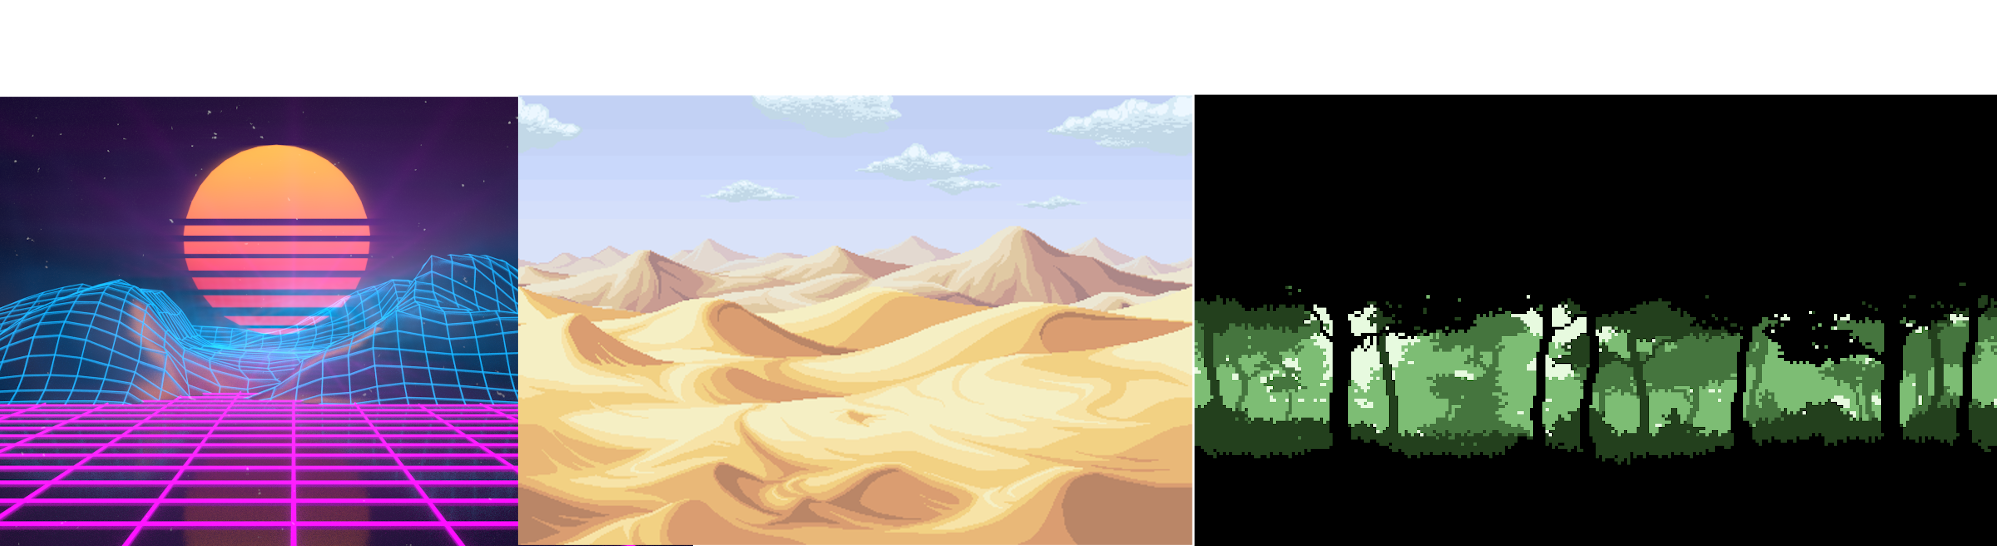
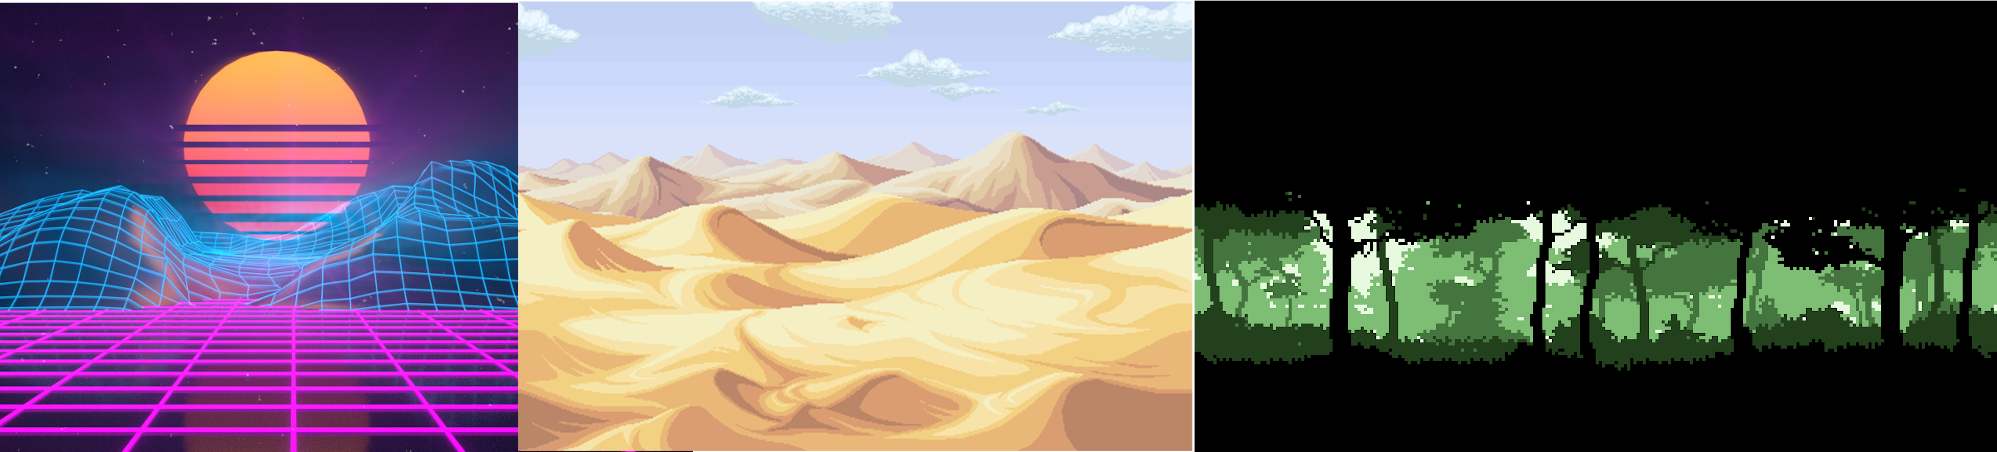
fixed game load

diff --git a/index.html b/index.html
@@ -1,10 +1,11 @@
 <!DOCTYPE html>
 <html lang="en">
+
 <head>
   <meta charset="UTF-8">
   <meta name="viewport" content="width=device-width, initial-scale=1.0">
   <meta http-equiv="X-UA-Compatible" content="ie=edge">
-  <link rel="stylesheet" type="text/css" href="http://yui.yahooapis.com/3.18.1/build/cssreset/cssreset-min.css"> 
+  <link rel="stylesheet" type="text/css" href="http://yui.yahooapis.com/3.18.1/build/cssreset/cssreset-min.css">
   <link rel="stylesheet" type="text/css" href="game.css">
 
   <script type="text/javascript" src="background.js"></script>
@@ -15,35 +16,17 @@
   <script type="text/javascript" src="game.js"></script>
   <script type="text/javascript" src="index.js"></script>
   <script type="text/javascript">
-  function Empezar(){
-    document.getElementById('planet').style.display = "block";
-  }
-  function Ocultar(){
-    document.getElementById('planet').style.display = "none";
-  }
-  function Mostrar_Ocultar(){
-    var canvas = document.getElementById('planet');
-    if(canvas.style.display == "none"){
-      Start();
-      document.getElementById('boton').value = "Ocultar";
-    }else {
-      Ocultar();
-      document.getElementById('boton').value = "Start";
 
-    }
-  }
   </script>
   <!-- <link rel="stylesheet" href="style.css"> -->
   <title>Rescue Of The Panet Of The Apes (Museum Version)</title>
 </head>
+
 <body>
-    <div id="container-game">
-      <a href="#"> <img src="images/Intro.jpg"  alt="start-image" class="star-planet" ></a>
-    </div>
-    <input type="submit" id="boton" value="Start" onclick="Start()"/>
-    <input type="submit" value="Ocultar" onclick="Ocultar()"/>
-
-    <canvas id="planet" width="700" height="500"></canvas>
-
+  <div id="container-game">
+    <img src="images/Intro.jpg" alt="start-image" class="star-planet">
+  </div>
+  <canvas id="planet" width="700" height="500"></canvas>
 </body>
+
 </html>

diff --git a/game.js b/game.js
@@ -15,7 +15,7 @@ var Game = {
   init: function (id) {
 
     // this.backgroundCounter ++ç
-    this.canvas = document.getElementById(id);
+        this.canvas = document.getElementById(id);
     this.ctx = this.canvas.getContext("2d");
     this.setDimensions();
     this.reset();
@@ -103,7 +103,7 @@ var Game = {
   reset: function () {
 
     //la imagen con todas pegadas
-    this.background = new Background('./Images/pruebaStage.png', this.hCanvas, this.wCanvas, this.ctx)
+    this.background = new Background('./Background/backgroundFinal.png', this.hCanvas, this.wCanvas, this.ctx)
     this.player = new Player(this.ctx, this.wCanvas, this.framesCounter, Game)
     this.enemie = new Enemie(this.ctx, this.wCanvas, this.framesCounter, Game)
     this.apples = [

diff --git a/index.js b/index.js
@@ -1,3 +1,8 @@
 window.onload = function() {
-  Game.init("planet"); //canvas
+  const gameStartImage = document.querySelector(".star-planet")
+  
+  gameStartImage.onclick = function () {
+    gameStartImage.style.display = "none";
+    Game.init("planet"); //canvas
+  }
 };

diff --git a/background.js b/background.js
@@ -30,7 +30,7 @@ class Background{
       this.img,
       this.x,
       this.y - 300,
-      this.img.width,
+      10000,
       this.canvasHB + 300
     )
 
